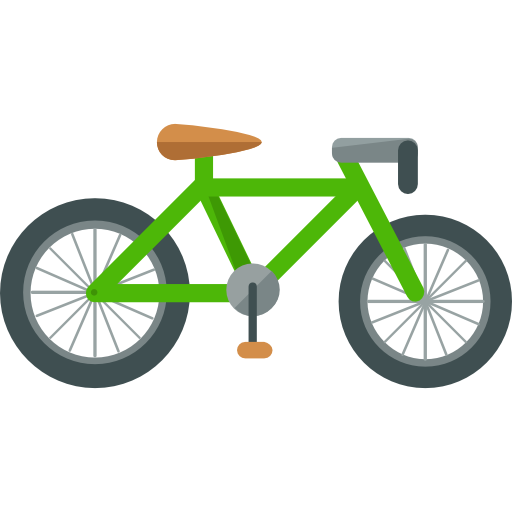
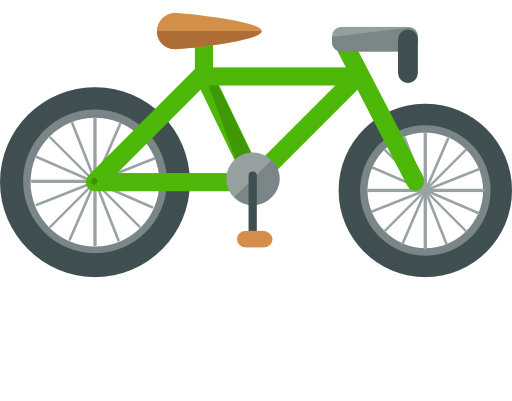
carousel

diff --git a/app/assets/stylesheets/static_pages.scss b/app/assets/stylesheets/static_pages.scss
@@ -172,21 +172,33 @@ a:hover {
     background-color: #fff;
 }
 
+.carousel-inner > .item > img {
+    margin: 0 auto;
+}
+
 .carousel {
     margin-left: -15px;
     margin-right: -15px;
     height: 100%;
     position: relative
 }
+.inner-item {
+    text-align: center;
+    img {
+        margin: 0 auto;
+    }
+}
+
 .active,
 .carousel,
 .item {
-    height: 100%
+    height: 80%
 }
 .carousel-inner {
+    margin: 0 auto;
     height: 100%;
-    background-position: center;
-    background-size: cover
+    background-size: cover;
+    position: relative
 }
 .fill {
     height: 100%;
@@ -200,7 +212,6 @@ a:hover {
     height: 100%;
     z-index: 1;
     background-color: #fff;
-    opacity: .3
 }
 .carousel-caption {
     font-family: 'Raleway', sans-serif;
@@ -208,7 +219,7 @@ a:hover {
     text-decoration: none;
     text-shadow: none;
     position: absolute;
-    top: 50%;
+    top: 84%;
     text-align: center;
     max-width: 100%;
     margin: 0 auto;
@@ -242,5 +253,97 @@ a:hover {
     background-color: #F7F7F7
 }
 
+@media (min-width: 768px) and (max-width: 979px) {
+    body,
+    h2,
+    p {
+        text-align: center
+    }
+    .header-caption {
+        top: 30%
+    }
+    .carousel-control.left,
+    .carousel-control.right {
+        top: -30%
+    }
+    .carousel-indicators {
+        top: 50%
+    }
+    .carousel-caption {
+    top: 50%
+    }
+    .inner-item img {
+        width: 80%;
+    }
+}
+@media (max-width: 767px) {
+    body,
+    h2,
+    h3,
+    p {
+        text-align: center
+    }
+    .container {
+        width: 80%
+    }
+    #contact {
+        padding-right: 10%;
+        padding-left: 10%
+    }
+    .header-caption {
+        top: 30%;
+        font-size: 62.5%
+    }
+    .inner-item img {
+        width: 80%;
+    }
+        .carousel-caption {
+        top: 60%;
+    }
+}
+@media (max-width: 480px) {
+    body,
+    h2,
+    h3,
+    p {
+        text-align: center
+    }
+    .container {
+        width: 90%
+    }
+    #contact {
+        padding-right: 5%;
+        padding-left: 5%
+    }
+    .header-caption {
+        top: 30%
+    }
+    .header-caption h2 {
+        font-weight: 800;
+        text-transform:uppercase
+    }
+    .carousel-caption {
+        top: 60%;
+    }
+    .about {
+        text-align: center;
+    }
+    #copywright {
+        width: 100%;
+        text-align: center
+    }
+    #fb-button {
+        width: 50%;
+        float: left
+    }
+    #twitter-button {
+        ;
+        float: right;
+        width: 50%;
+    }
+    .inner-item img {
+        width: 80%;
+    }
+}
 // They will automatically be included in application.css.
 // You can use Sass (SCSS) here: http://sass-lang.com/
